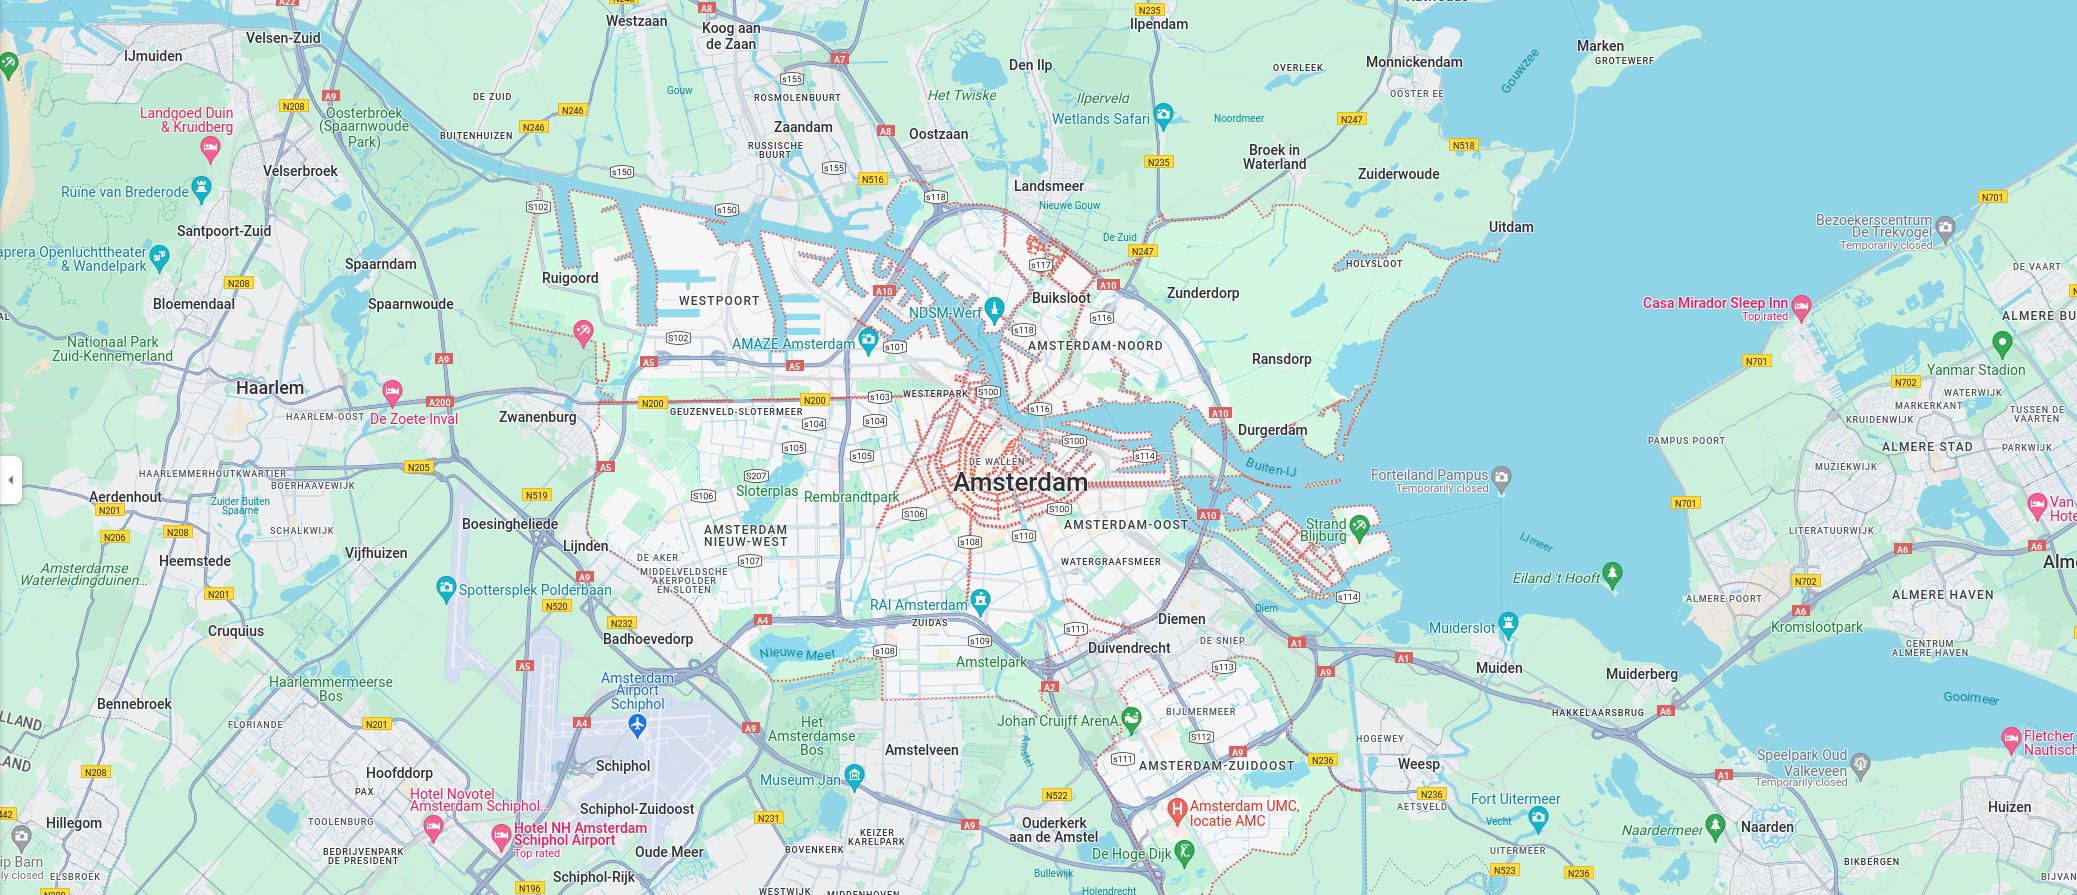
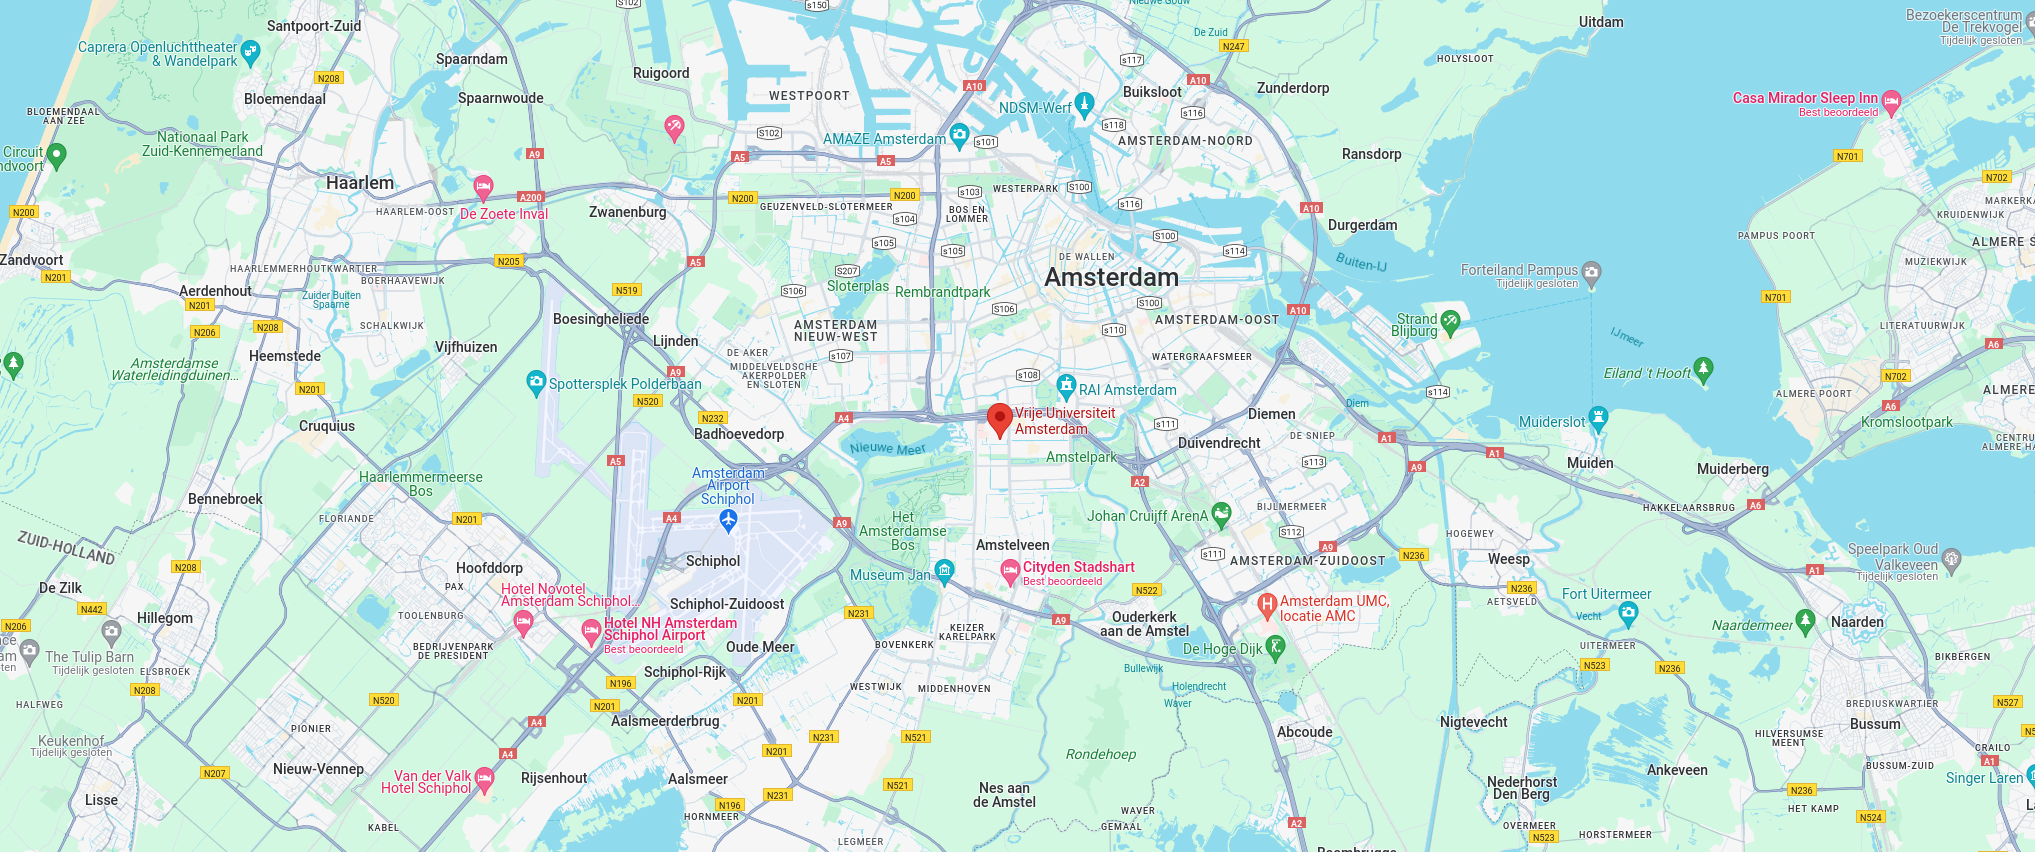
Add venue location, update map image.

diff --git a/cwlcon2024-site/index.html b/cwlcon2024-site/index.html
@@ -29,6 +29,7 @@
                 <a href="">CWLCon 2024</a>
             </h1>
         </div>
+        <!-- This banner is duplicated below for larger viewports. Please update it there as well. -->
         <div class="banner-text">
             <span>Week of May 13th, 2024</span>
             <span>Amsterdam, NL & online!</span>
@@ -47,7 +48,7 @@
                 <a title="Conference Program" href="#program">Program (TBA)</a>
             </li>
             <li>
-                <a title="Directions to the Conference" href="#directions">Directions (TBA)</a>
+                <a title="Directions to the Conference" href="#directions">Directions</a>
             </li>
             <li>
                 <a title="Health & Safety" href="#health-and-safety">Health and Safety</a>
@@ -60,6 +61,7 @@
 
     <main>
         <article>
+            <!-- This banner is duplicated above for larger viewports. Please update it there as well. -->
             <div class="banner-text">
                 <p>
                     <span>Week of May 13th, 2024</span>
@@ -139,10 +141,11 @@
                 <div class="row">
                     <div class="column">
                         <h2><a href="#directions">Directions</a></h2>
-
-                        <p>We are yet to find a venue for this conference.</p>
-
-                        <p>If you know of suitable venue for this conference please contact an organizer ASAP, it would be greatly appreciated!</p>
+                        <address>
+                            <strong><a href="https://vu.nl/">Vrije Universiteit Amsterdam</a></strong><br/>
+                            De Boelelaan 1105, 1081 HV Amsterdam, Netherlands.<br/>
+                            <a href="https://www.google.com/maps/place/Vrije+Universiteit+Amsterdam/@52.334383,4.86892,16z/data=!4m5!3m4!1s0x47c60a085c443af1:0x2df2d7a997eccd84!8m2!3d52.3337568!4d4.8657199?hl=nl-NL">Location of VU Amsterdam on Google Maps</a>
+                        </address>
                     </div>
                 </div>
 

diff --git a/cwlcon2024-site/assets/stylesheets/main.css b/cwlcon2024-site/assets/stylesheets/main.css
@@ -172,15 +172,6 @@ main > article > section {
     overflow: hidden;
 }
 
-main > article > section img {
-    width: 100%;
-    max-width: 100vw;
-}
-
-main > article > section > img {
-    filter: grayscale(100%);
-}
-
 main > article > section > div {
     width: 90%;
     margin: 0 auto;
@@ -254,6 +245,16 @@ main > article > section ul > li, main > article > section ol > li {
 main > article > section a[href="#body"] {
     color: darkgray;
     text-decoration: underline;
+}
+
+main > article > section img {
+    width: 100%;
+    max-width: 100vw;
+}
+
+main > article > section address {
+    line-height: 2rem;
+    margin: 0.5rem 0;
 }
 
 /* For contrast. */
